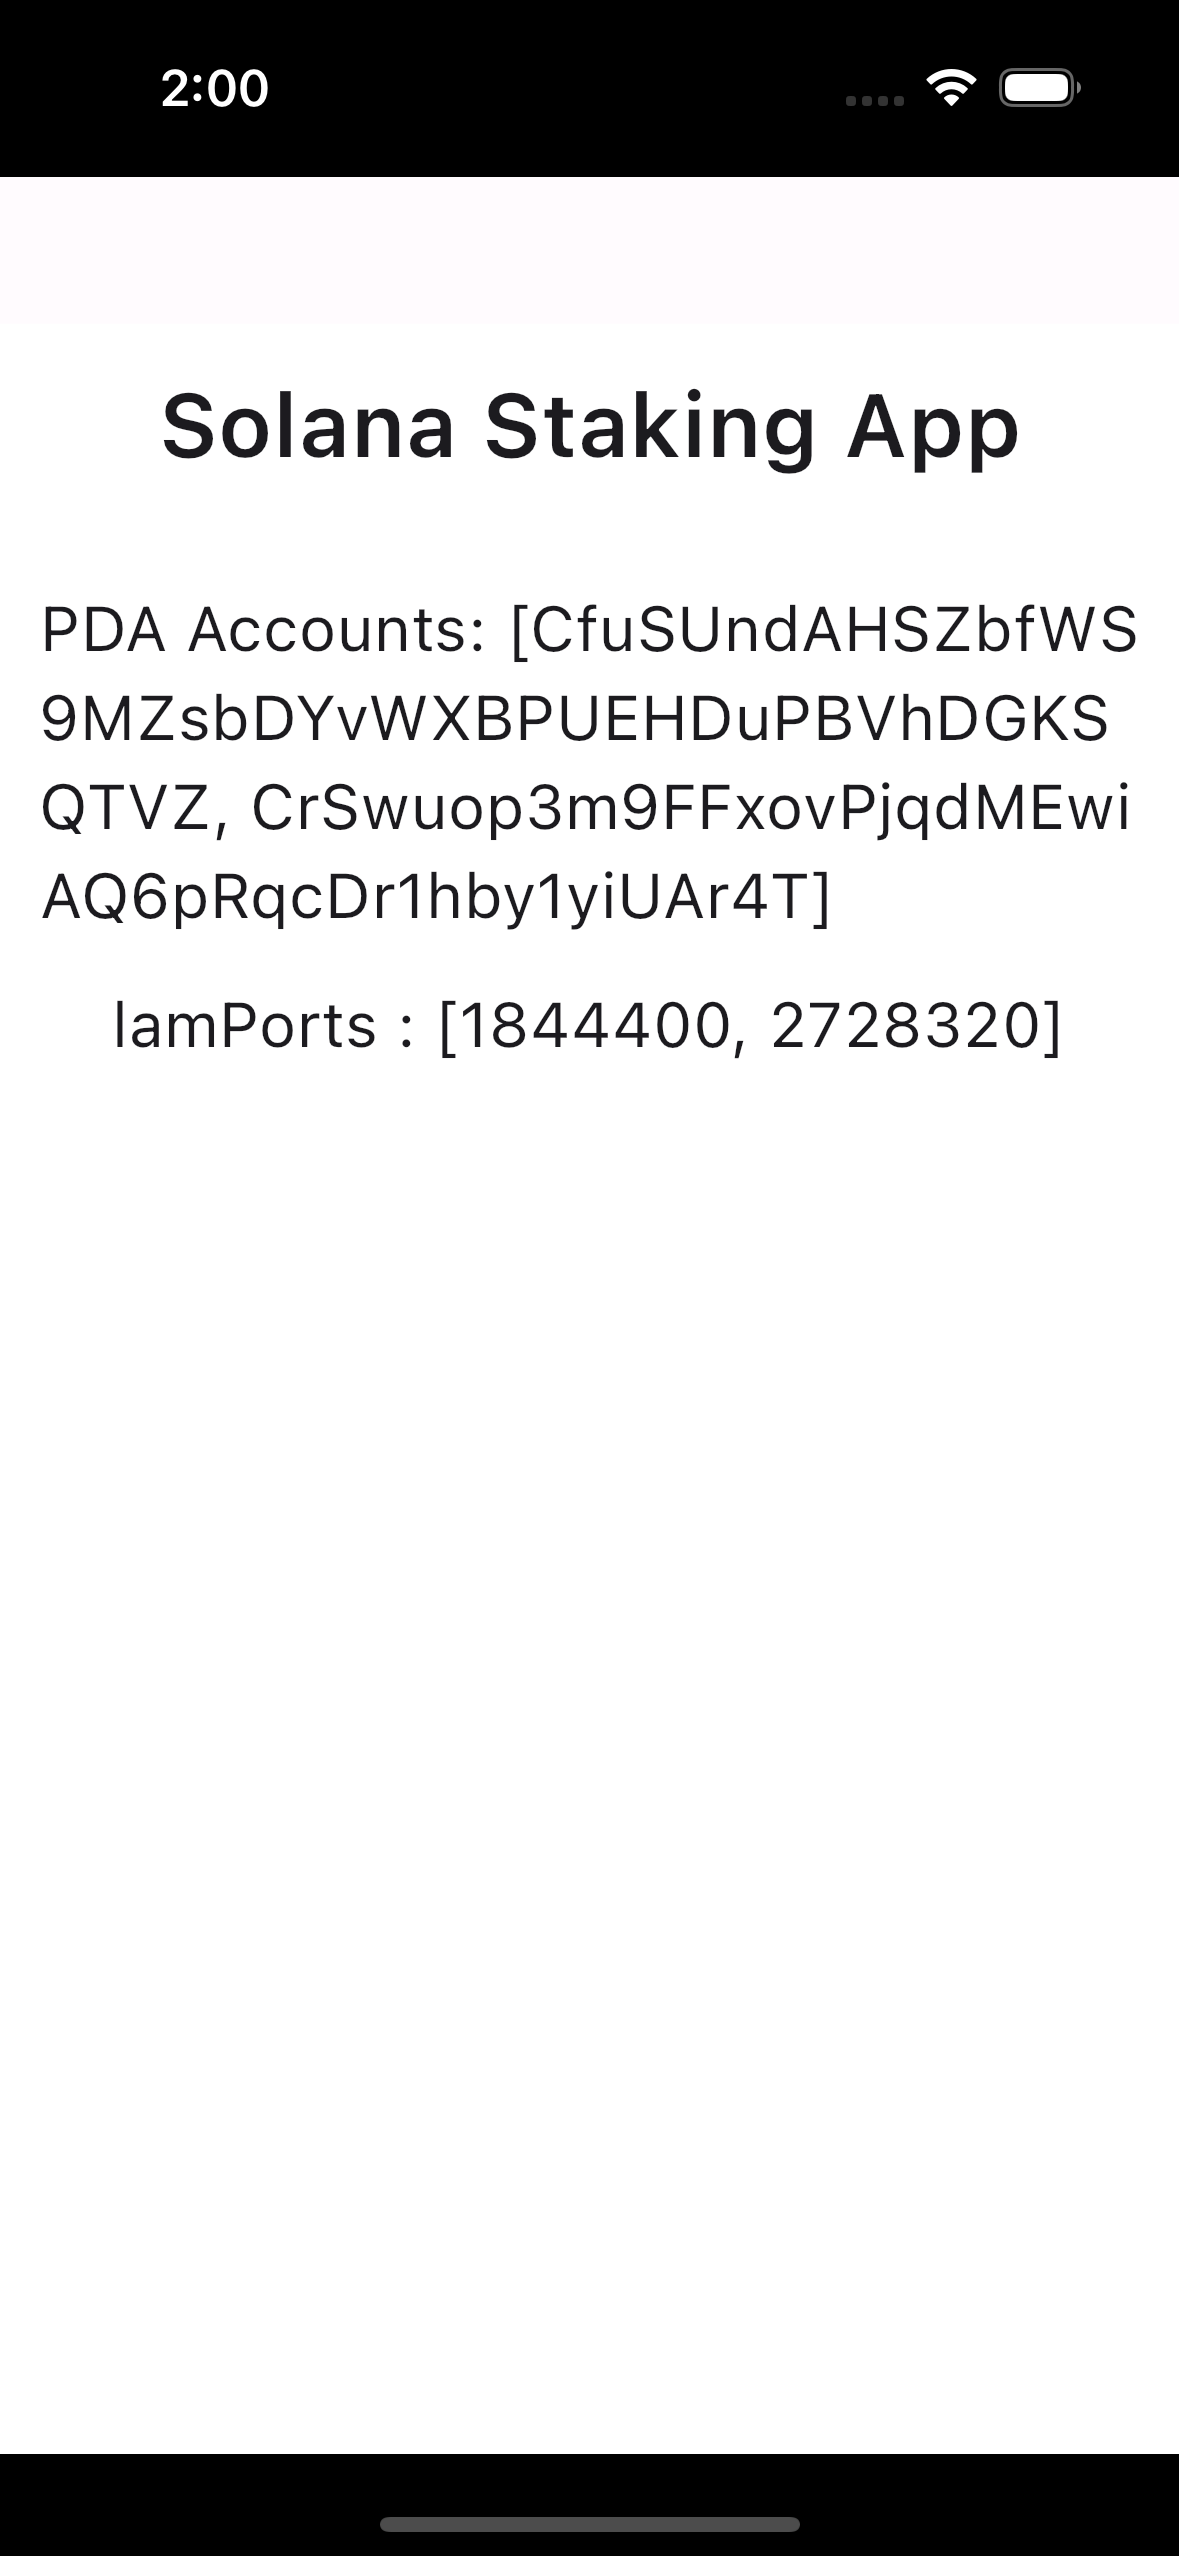
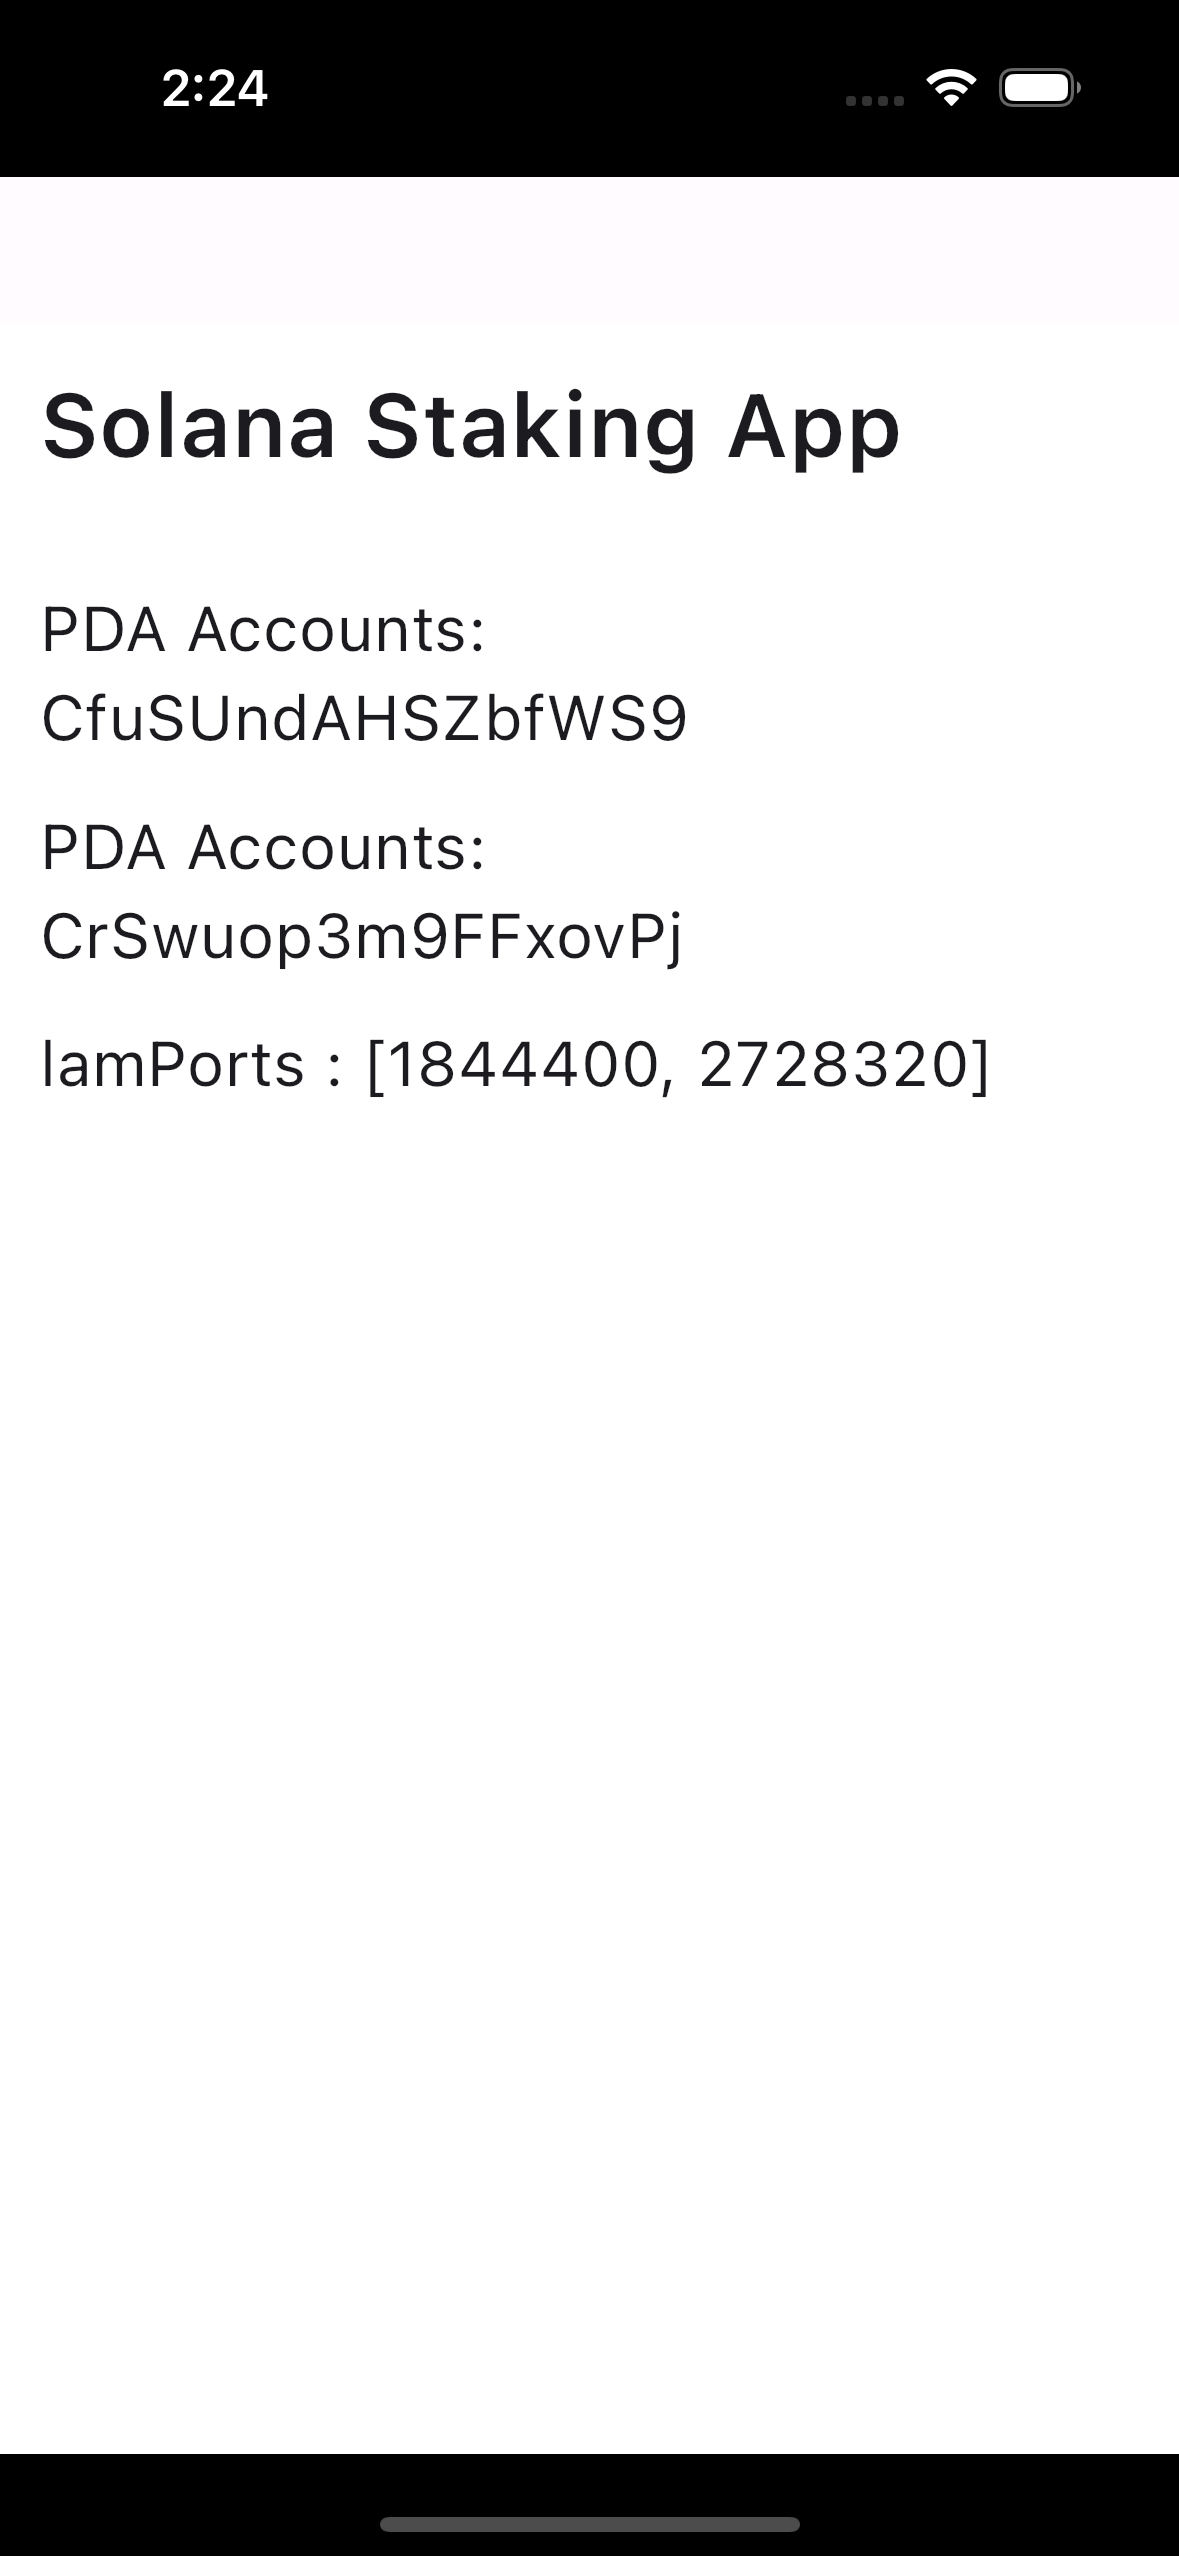
Added new screenshot for staking

diff --git a/apps/staking_app/lib/features/home/presentation/pages/home_page_mobile_view.dart b/apps/staking_app/lib/features/home/presentation/pages/home_page_mobile_view.dart
@@ -2,7 +2,7 @@ import 'package:flutter/material.dart';
 
 /// This class [HomePageMobileView] which specifically used to render Mobile UI
 class HomePageMobileView extends StatelessWidget {
-  final String pdaAccount;
+  final List<String> pdaAccount;
   final String lamPorts;
   const HomePageMobileView(
       {super.key, required this.pdaAccount, required this.lamPorts});
@@ -12,6 +12,7 @@ class HomePageMobileView extends StatelessWidget {
     return Padding(
       padding: const EdgeInsets.all(15.0),
       child: Column(
+        crossAxisAlignment: CrossAxisAlignment.start,
         children: [
           const Text(
             "Solana Staking App",
@@ -21,7 +22,14 @@ class HomePageMobileView extends StatelessWidget {
             height: 35,
           ),
           Text(
-            "PDA Accounts: $pdaAccount",
+            "PDA Accounts: ${pdaAccount.first.substring(0, 16)}",
+            style: const TextStyle(fontSize: 24),
+          ),
+          const SizedBox(
+            height: 15,
+          ),
+          Text(
+            "PDA Accounts: ${pdaAccount.last.substring(0, 17)}",
             style: const TextStyle(fontSize: 24),
           ),
           const SizedBox(

diff --git a/apps/staking_app/lib/features/home/presentation/cubit/home_cubit.dart b/apps/staking_app/lib/features/home/presentation/cubit/home_cubit.dart
@@ -36,7 +36,7 @@ class HomeCubit extends Cubit<HomeCubitState> {
         lamPorts.add(account.account.lamports.toString());
       }
       emit(HomeLoadedState(
-          lamPorts: lamPorts.toString(), pdaAccount: pdaAccount.toString()));
+          lamPorts: lamPorts.toString(), pdaAccount: pdaAccount));
     } catch (e) {
       print("Error fetching program accounts: $e");
     }

diff --git a/apps/staking_app/lib/features/home/presentation/cubit/home_state.dart b/apps/staking_app/lib/features/home/presentation/cubit/home_state.dart
@@ -12,7 +12,7 @@ class HomeInitialState extends HomeCubitState {}
 
 class HomeLoadedState extends HomeCubitState {
   final String lamPorts;
-  final String pdaAccount;
+  final List<String> pdaAccount;
 
   const HomeLoadedState({required this.lamPorts, required this.pdaAccount});
 }
